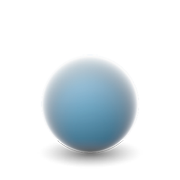
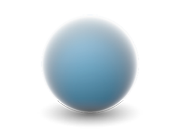
Changed to dynamic js based image reflection effect in projects.

Changed region(s): [[0.2222, 0.1143, 0.7778, 0.6286], [0.2222, 0.5429, 0.7778, 0.9143]]

diff --git a/site/projects.html b/site/projects.html
@@ -40,40 +40,58 @@
 				<h3 class="section-title bigger gradient-vert">Actions speak better than words, so get to know us through our work.</h3>
 				<div class="projects-wrapper">
 					<div id="proj-1" class="column project-column">
-						<img src="images/projects/proj-1.png" />
-						<h4 class="project-title">Plumi</h4>
+						<div class="image-wrapper">
+							<img src="images/projects/proj-1.jpg" />
+							<h4 class="project-title">Plumi</h4>
+						</div>
 					</div>
 					<div id="proj-2" class="column project-column">
-						<img src="images/projects/proj-2.png" />
-						<h4 class="project-title">ΤΕΕ Θράκης</h4>
+						<div class="image-wrapper">
+							<img src="images/projects/proj-1.jpg" />
+							<h4 class="project-title">ΤΕΕ Θράκης</h4>
+						</div>
 					</div>
 					<div id="proj-3" class="column project-column">
-						<img src="images/projects/proj-3.png" />
-						<h4 class="project-title">invision-images.com</h4>
+						<div class="image-wrapper">
+							<img src="images/projects/proj-1.jpg" />
+							<h4 class="project-title">invision-images.com</h4>
+						</div>
 					</div>
 					<div id="proj-4" class="column project-column">
-						<img src="images/projects/proj-4.png" />
-						<h4 class="project-title">marikworld.com</h4>
+						<div class="image-wrapper">
+							<img src="images/projects/proj-1.jpg" />
+							<h4 class="project-title">marikworld.com</h4>
+						</div>
 					</div>
 					<div id="proj-5" class="column project-column">
-						<img src="images/projects/proj-5.png" />
-						<h4 class="project-title">openfish.gr</h4>
+						<div class="image-wrapper">
+							<img src="images/projects/proj-1.jpg" />
+							<h4 class="project-title">openfish.gr</h4>
+						</div>
 					</div>
 					<div id="proj-6" class="column project-column">
-						<img src="images/projects/proj-6.png" />
-						<h4 class="project-title">stokokkino.gr</h4>
+						<div class="image-wrapper">
+							<img src="images/projects/proj-1.jpg" />
+							<h4 class="project-title">stokokkino.gr</h4>
+						</div>
 					</div>
 					<div id="proj-7" class="column project-column">
-						<img src="images/projects/proj-7.png" />
-						<h4 class="project-title">sexshoptv.gr</h4>
+						<div class="image-wrapper">
+							<img src="images/projects/proj-1.jpg" />
+							<h4 class="project-title">sexshoptv.gr</h4>
+						</div>
 					</div>
 					<div id="proj-8" class="column project-column">
-						<img src="images/projects/proj-8.png" />
-						<h4 class="project-title">syriza.gr</h4>
+						<div class="image-wrapper">
+							<img src="images/projects/proj-1.jpg" />
+							<h4 class="project-title">syriza.gr</h4>
+						</div>
 					</div>
 					<div id="proj-9" class="column project-column">
-						<img src="images/projects/proj-9.png" />
-						<h4 class="project-title">0-18.gr</h4>
+						<div class="image-wrapper">
+							<img src="images/projects/proj-1.jpg" />
+							<h4 class="project-title">0-18.gr</h4>
+						</div>
 					</div>
 				</div>
 			</div>
@@ -137,9 +155,9 @@
 		<!-- Grab Google CDN's jQuery, with a protocol relative URL; fall back to local if offline -->
 		<script src="//ajax.googleapis.com/ajax/libs/jquery/1.6.2/jquery.min.js"></script>
 		<script>window.jQuery || document.write('<script src="docs/js/libs/jquery-1.6.2.min.js"><\/script>')</script>
-		
-		<script src="docs/js/libs/processing-1.2.3.min.js"></script>  
-		<script type="text/javascript" src="docs/js/frontpage.js"></script>
+		 
+		<script type="text/javascript" charset="UTF-8" src="docs/js/libs/reflection.js"></script>
+		<script type="text/javascript" src="docs/js/projects.js"></script>
         <script>
 	            $("#logos ul li").hover(function() { //On hover...
 

diff --git a/site/docs/js/libs/reflection.js b/site/docs/js/libs/reflection.js
@@ -1,0 +1,11 @@
+/*!
+	reflection.js for jQuery v1.1
+	(c) 2006-2011 Christophe Beyls <http://www.digitalia.be>
+	MIT-style license.
+*/
+(function(a){a.fn.extend({reflect:function(b){b=a.extend({height:1/3,opacity:0.5},b);return this.unreflect().each(function(){var c=this;if(/^img$/i.test(c.tagName)){function d(){var g=c.width,f=c.height,l,i,m,h,k;i=Math.floor((b.height>1)?Math.min(f,b.height):f*b.height);l=a("<canvas />")[0];if(l.getContext){h=l.getContext("2d");try{a(l).attr({width:g,height:i});h.save();h.translate(0,f-1);h.scale(1,-1);h.drawImage(c,0,0,g,f);h.restore();h.globalCompositeOperation="destination-out";k=h.createLinearGradient(0,0,0,i);k.addColorStop(0,"rgba(255, 255, 255, "+(1-b.opacity)+")");k.addColorStop(1,"rgba(255, 255, 255, 1.0)");h.fillStyle=k;h.rect(0,0,g,i);h.fill()}catch(j){return}}else{if(!a.browser.msie){return}l=a("<img />").attr("src",c.src).css({width:g,height:f,marginBottom:i-f,filter:"FlipV progid:DXImageTransform.Microsoft.Alpha(Opacity="+(b.opacity*100)+", FinishOpacity=0, Style=1, StartX=0, StartY=0, FinishX=0, FinishY="+(i/f*100)+")"})[0]}a(l).css({display:"block",border:0});m=a(/^a$/i.test(c.parentNode.tagName)?"<span />":"<div />").insertAfter(c).append([c,l])[0];m.className=c.className;a.data(c,"reflected",m.style.cssText=c.style.cssText);a(m).css({width:g,height:f+i,overflow:"hidden"});c.style.cssText="display: block; border: 0px";c.className="reflected"}if(c.complete){d()}else{a(c).load(d)}}})},unreflect:function(){return this.unbind("load").each(function(){var c=this,b=a.data(this,"reflected"),d;if(b!==undefined){d=c.parentNode;c.className=d.className;c.style.cssText=b;a.removeData(c,"reflected");d.parentNode.replaceChild(c,d)}})}})})(jQuery);
+
+// AUTOLOAD CODE BLOCK (MAY BE CHANGED OR REMOVED)
+jQuery(function($) {
+	$("img.reflect").reflect({/* Put custom options here */});
+});

diff --git a/site/docs/css/style.css b/site/docs/css/style.css
@@ -477,6 +477,10 @@ body.section-projects #content-core {
 	background: #f1f1f1 url(../../images/background-6.gif) repeat-x 0 0;
 }
 
+.dotted-bg {
+	background: url("../../images/background-1.gif") repeat 0 0;
+}
+
 .column-title, .slide .item-title {
 	padding: 16px 0;
 	margin: 16px 0;
@@ -722,10 +726,6 @@ body.section-projects #content-core {
         text-decoration: underline;
 }
 
-.dotted-bg {
-	background: url("../../images/background-1.gif") repeat 0 0;
-}
-
 
 /* Prjects Section */
 
@@ -746,29 +746,31 @@ body.section-projects #content-core {
 
 .project-column, body.section-projects .tileItem {
 	width:298px;
-	margin: 0 0 16px 0;
+	margin: 32px 0 16px 0;
 	padding: 0;
 	text-align: center;
 }
 
-.default-project {
+.image-wrapper {
 	width: 180px;
-	height: 180px;
 	margin: 0 auto;
+}
+
+.default-project, .plone-project, .python-project {
+	width: 180px;
+	height: 140px;
+	margin: 0 auto;
+}
+
+.default-project {
 	background: url('../../images/projects/sphere.png') center no-repeat;
 }
 
 .plone-project {
-	width: 180px;
-	height: 180px;
-	margin: 0 auto;
 	background: url('../../images/projects/plone.png') center no-repeat;
 }
 
 .python-project {
-	width: 180px;
-	height: 180px;
-	margin: 0 auto;
 	background: url('../../images/projects/python.png') center no-repeat;
 }
 

diff --git a/site/docs/js/projects.js b/site/docs/js/projects.js
@@ -1,0 +1,5 @@
+$(document).ready(function(){
+  
+  $('.project-column').find('img').reflect();
+  
+});
